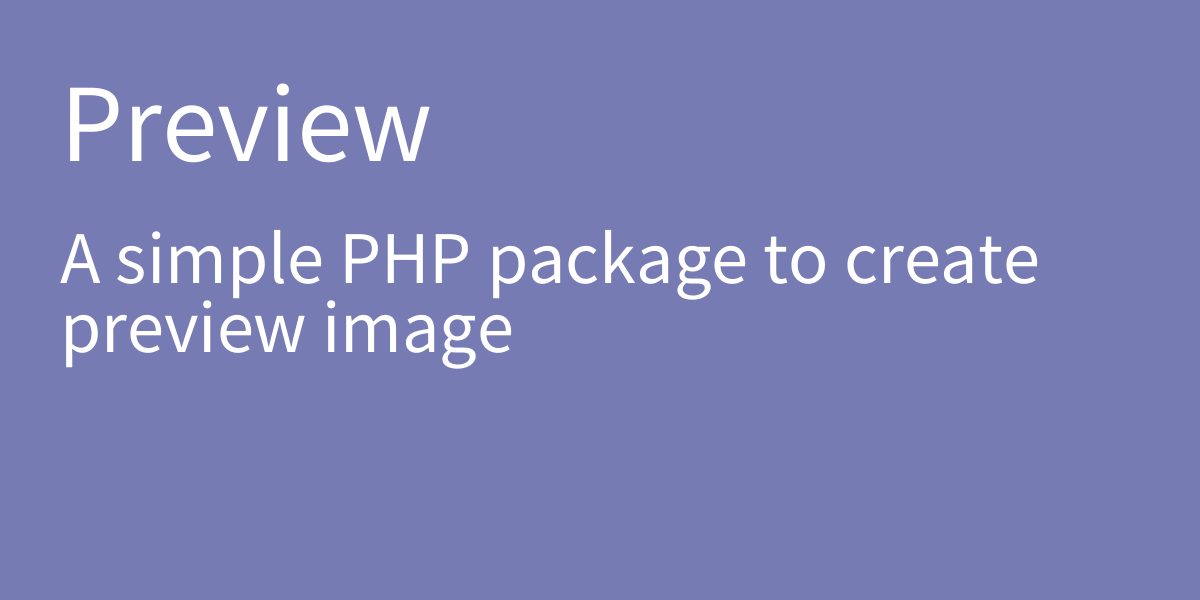
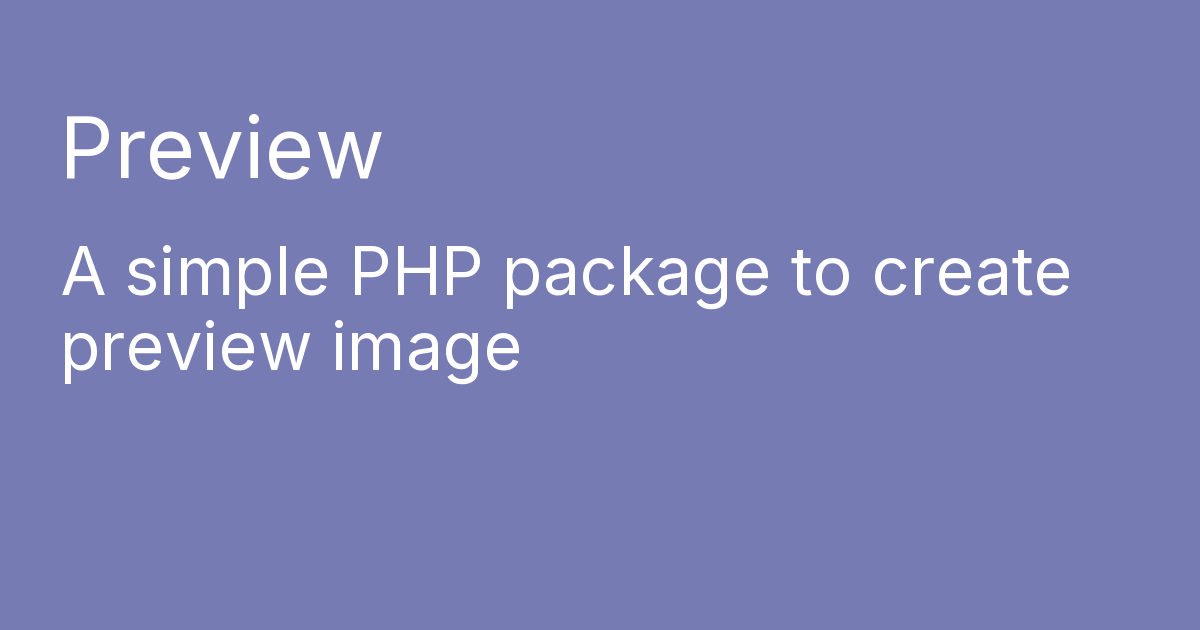
docs: add font and line-height support to `TextBlock`
- Introduce `Font` and `LineHeight` enums for text styling.
- Update examples in `save.php` and README to demonstrate new properties.
- Adjust documentation to include `LineHeight` usage details.

Changed region(s): [[0.0617, 0.39, 0.8942, 0.63], [0.0308, 0.12, 0.37, 0.3]]

diff --git a/examples/save.php b/examples/save.php
@@ -5,7 +5,9 @@ include_once __DIR__.'/../vendor/autoload.php';
 use Yilanboy\Preview\Canvas\Background\Solid;
 use Yilanboy\Preview\Canvas\Enums\Size;
 use Yilanboy\Preview\Generator;
+use Yilanboy\Preview\Text\Enums\Font;
 use Yilanboy\Preview\Text\Enums\FontSize;
+use Yilanboy\Preview\Text\Enums\LineHeight;
 use Yilanboy\Preview\Text\TextBlock;
 
 new Generator()
@@ -15,10 +17,13 @@ new Generator()
         text: 'Preview',
         color: 'white',
         fontSize: FontSize::Large,
+        font: Font::Inter,
     ))
     ->description(new TextBlock(
         text: 'A simple PHP package to create preview image',
         color: 'white',
         fontSize: FontSize::Medium,
+        font: Font::Inter,
+        lineHeight: LineHeight::Relaxed,
     ))
     ->save('preview.png');

diff --git a/README.md b/README.md
@@ -17,7 +17,9 @@ use Yilanboy\Preview\Canvas\Background\Solid;
 use Yilanboy\Preview\Canvas\Enums\Margin;
 use Yilanboy\Preview\Canvas\Enums\Size;
 use Yilanboy\Preview\Generator;
+use Yilanboy\Preview\Text\Enums\Font;
 use Yilanboy\Preview\Text\Enums\FontSize;
+use Yilanboy\Preview\Text\Enums\LineHeight;
 use Yilanboy\Preview\Text\TextBlock;
 
 new Generator
@@ -28,11 +30,14 @@ new Generator
         text: 'Preview',
         color: 'white',
         fontSize: FontSize::Large,
+        font: Font::Inter,
     ))
     ->description(new TextBlock(
         text: 'A simple PHP package to create preview image',
         color: 'white',
         fontSize: FontSize::Medium,
+        font: Font::Inter,
+        lineHeight: LineHeight::Relaxed,
     ))
     ->output();
 ```
@@ -98,8 +103,8 @@ $generator->margin(Margin::Large);
 
 ## Line Height
 
-When text wraps to multiple lines, `LineHeight` controls the spacing between them. The value is a unit-less multiplier of
-the text's font size (CSS `line-height` semantics). `TextBlock` defaults to `LineHeight::Normal` (1.3×).
+When text wraps to multiple lines, `LineHeight` controls the spacing between them. The value is a unit-less multiplier
+of the text's font size (CSS `line-height` semantics). `TextBlock` defaults to `LineHeight::Normal` (1.3×).
 
 ```php
 use Yilanboy\Preview\Text\Enums\LineHeight;